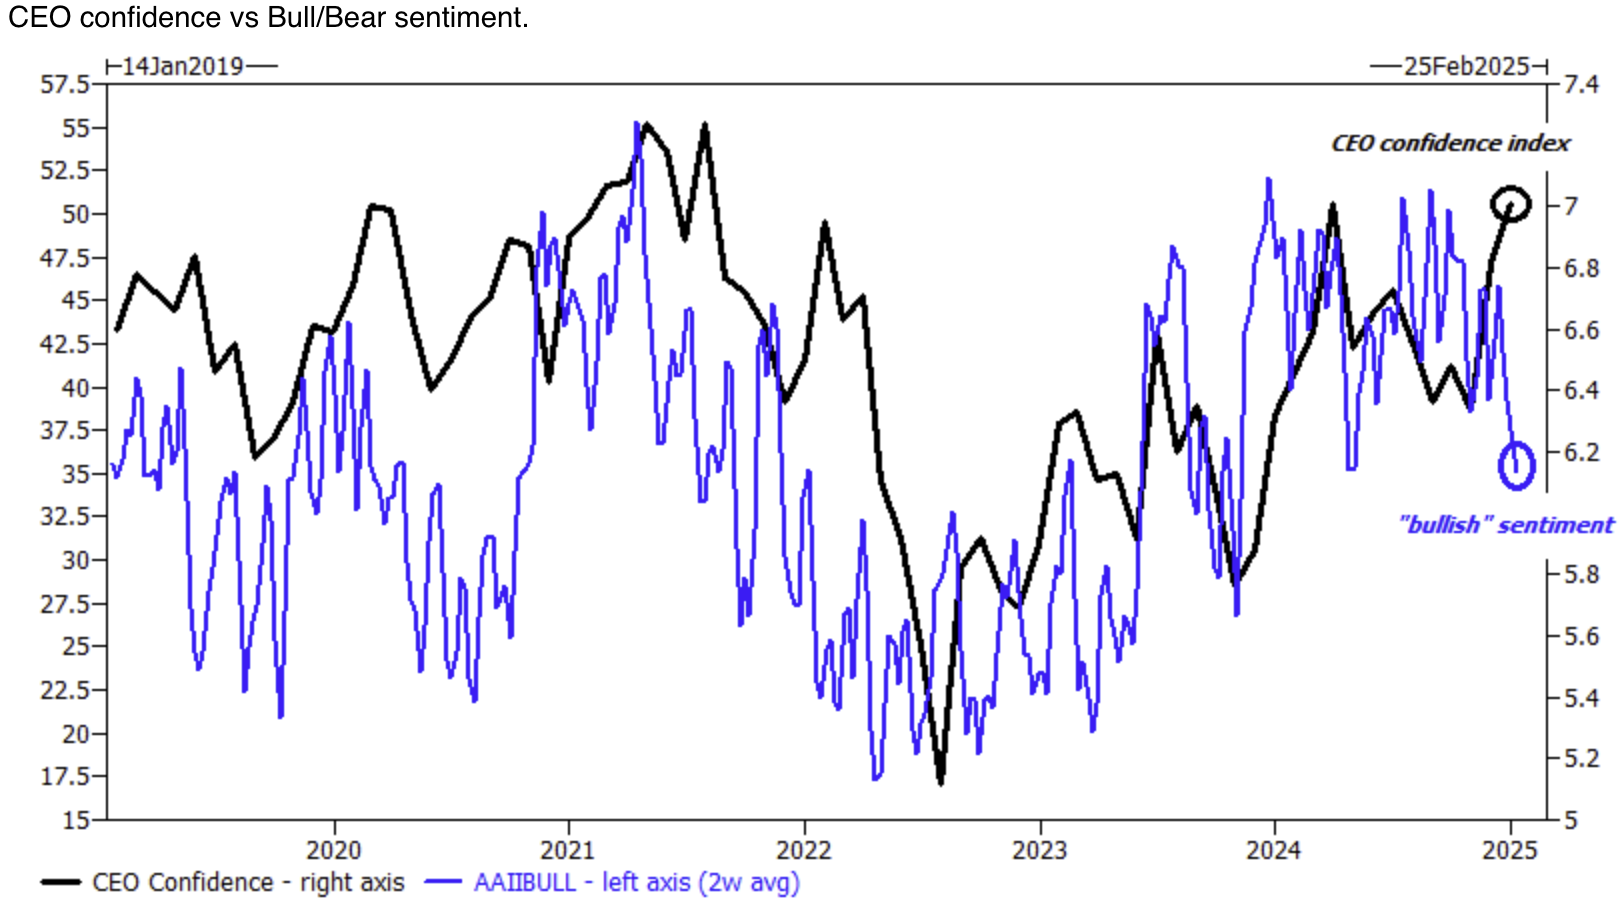
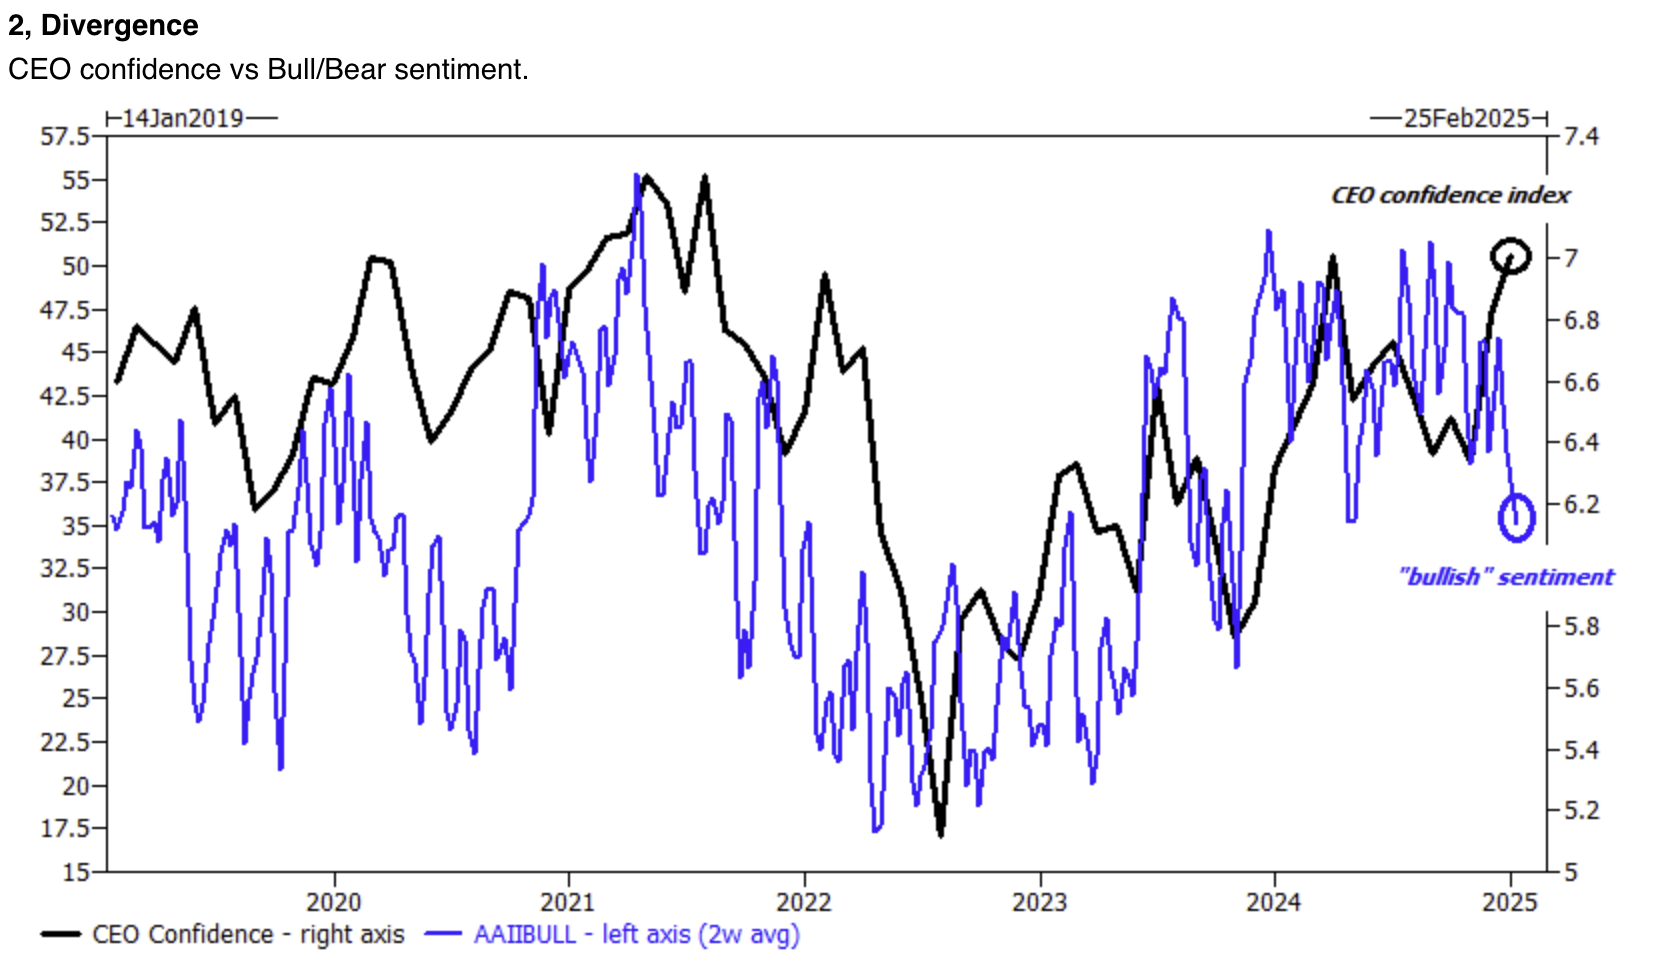
add images for remaining report, show title and description

Changed region(s): [[0.0, 0.0, 1.0, 0.9803]]

diff --git a/TransientAI.UI/transientai-ui/src/services/reports-data/research-reports-data.ts b/TransientAI.UI/transientai-ui/src/services/reports-data/research-reports-data.ts
@@ -94,13 +94,17 @@ Continued momentum and narrow index concentration pose risks if market sentiment
 `,
       emailSource: `../emails/Ruminations.html`,
       charts: [
-          {image: '../charts/divergence.png', description: 'CEO confidence vs Bull/Bear sentiment'},
-          {image: '../charts/rates_to_cuts.png'},
-          {image: '../charts/productivity.png', description: 'Regional differentials'},
-          {image: '../charts/capital_flows.png', description: 'Capital flows where it is welcome and rewarded'},
-          {image: '../charts/active_passive.png'}, {image: '../charts/concentration.png'},
-          {image: '../charts/past_v_future.png'}, {image: '../charts/valuations.png'},
-          {image: '../charts/value_creation.png'}, {image: '../charts/equity_owners.png'}
+          {image: '../charts/cpi.png', title: 'CPI'},
+          {image: '../charts/divergence.png', description: 'CEO confidence vs Bull/Bear sentiment', title: 'Divergence'},
+          {image: '../charts/rates_to_cuts.png', title: 'Rates reaction to rate cuts'},
+          {image: '../charts/productivity.png', description: 'Regional differentials', title: 'Productivity'},
+          {image: '../charts/capital_flows.png', description: 'Capital flows where it is welcome and rewarded', title: 'Capital flows'},
+          {image: '../charts/active_passive.png', title: 'Active v Passive'},
+          {image: '../charts/concentration.png', title: 'Concentration'},
+          {image: '../charts/past_v_future.png', title: 'Returns - past vs future'},
+          {image: '../charts/valuations.png', title: 'Valuations'},
+          {image: '../charts/value_creation.png', title: 'Value creation'},
+          {image: '../charts/equity_owners.png', title: 'Equity owners and length'}
         ],
         keywords: ['VC Landscape', 'Systematic Quant Strategies', 'Geo Political and Headline Risk']
     },
@@ -250,7 +254,22 @@ Continued momentum and narrow index concentration pose risks if market sentiment
 - **Luxury**: Chinese jewelry demand remains a resilient category, likely to sustain momentum into Q1 despite tough comps
 - **Chemicals**: Capacity utilization tightening signals medium-term opportunities in defensive segments
 - **Healthcare**: AstraZeneca's strong catalyst profile positions it well for sustained interest, although Chinese risks need monitoring`,
-      emailSource: `../emails/Feedback.html`
+      emailSource: `../emails/Feedback.html`,
+      charts: [
+            {image: '../charts/buy_cfr.png', title: 'Buy CFR'},
+            {image: '../charts/chart_of_week.png', description: 'Purchase intent is picking up across Luxury in China', title: 'Chart of the Week'},
+            {image: '../charts/buy_nibeb.png', title: 'Buy NIBEB'},
+            {image: '../charts/chart_of_week_2.png', title: 'Chart of the Week'},
+            {image: '../charts/chart_of_week_3.png', title: 'Chart of the Week'},
+            {image: '../charts/launches.png', title: 'MG Launch vs CIDP Launch'},
+            {image: '../charts/buy_argx.png', title: 'Buy ARGX'},
+            {image: '../charts/chart_of_week_pharma.png', title: 'Chart of the Week'},
+            {image: '../charts/buy_rya.png', title: 'Buy RYA'},
+            {image: '../charts/chart_of_week_5.png', title: 'Chart of the Week'},
+            {image: '../charts/buy_sxpp.png', title: 'Buy SXPP'},
+            {image: '../charts/buy_glen.png', title: 'Buy GLEN'},
+            {image: '../charts/chart_of_week_6.png', title: 'Chart of the Week'}
+        ],
     }
   ];
 }

diff --git a/TransientAI.UI/transientai-ui/src/components/image-container/image-container.tsx b/TransientAI.UI/transientai-ui/src/components/image-container/image-container.tsx
@@ -4,7 +4,7 @@ import styles from './image-container.module.scss';
 import {ImagePopup} from "@/components/image-container/image-popup";
 
 type ImageContainerProps = {
-    images: Array<{image: string, description?: string}>;
+    images: Array<{image: string, title?: string; description?: string}>;
 };
 
 const ImageContainer = (props: ImageContainerProps) => {
@@ -15,8 +15,12 @@ const ImageContainer = (props: ImageContainerProps) => {
             <ul className={styles['image-section']}>
                 { images.map((image) => (
                     <li key={image.image}>
-                        <ImagePopup image={image.image} description={image.description}>
-                            <img src={image.image} />
+                        <ImagePopup {...image}>
+                            <div>
+                                <h2>{image.title}</h2>
+                                <img src={image.image} alt={image.title}/>
+                                <span>{image.description}</span>
+                            </div>
                         </ImagePopup>
                     </li>
                 ))}

diff --git a/TransientAI.UI/transientai-ui/src/components/image-container/image-popup.tsx b/TransientAI.UI/transientai-ui/src/components/image-container/image-popup.tsx
@@ -6,10 +6,11 @@ import { Cross1Icon } from "@radix-ui/react-icons";
 export interface ImagePopupProps {
     image: string;
     description?: string;
+    title?: string;
     children: ReactNode;
 }
 
-export function ImagePopup({children, image, description}: ImagePopupProps) {
+export function ImagePopup({children, image, title, description}: ImagePopupProps) {
     return (
         <Dialog.Root>
             <Dialog.Trigger asChild>
@@ -21,6 +22,9 @@ export function ImagePopup({children, image, description}: ImagePopupProps) {
                     <Dialog.DialogClose>
                         <Cross1Icon />
                     </Dialog.DialogClose>
+                    <Dialog.Title>
+                        {title}
+                    </Dialog.Title>
                     <div className={styles['content']}>
                         <div style={{ padding: '20px 50px' }}>
                             <img src={image} style={{height: '350px', width: '650px'}}/>

diff --git a/TransientAI.UI/transientai-ui/src/components/image-container/image-container.module.scss b/TransientAI.UI/transientai-ui/src/components/image-container/image-container.module.scss
@@ -24,6 +24,6 @@
 }
 
 .image-section li img {
-  height: 60px;
-  width: 80px
+  height: 250px;
+  width: 350px
 }

diff --git a/TransientAI.UI/transientai-ui/src/services/reports-data/model.ts b/TransientAI.UI/transientai-ui/src/services/reports-data/model.ts
@@ -1,5 +1,6 @@
 export interface ChartSummary {
   image: string,
+  title?: string,
   description?: string;
 }
 
